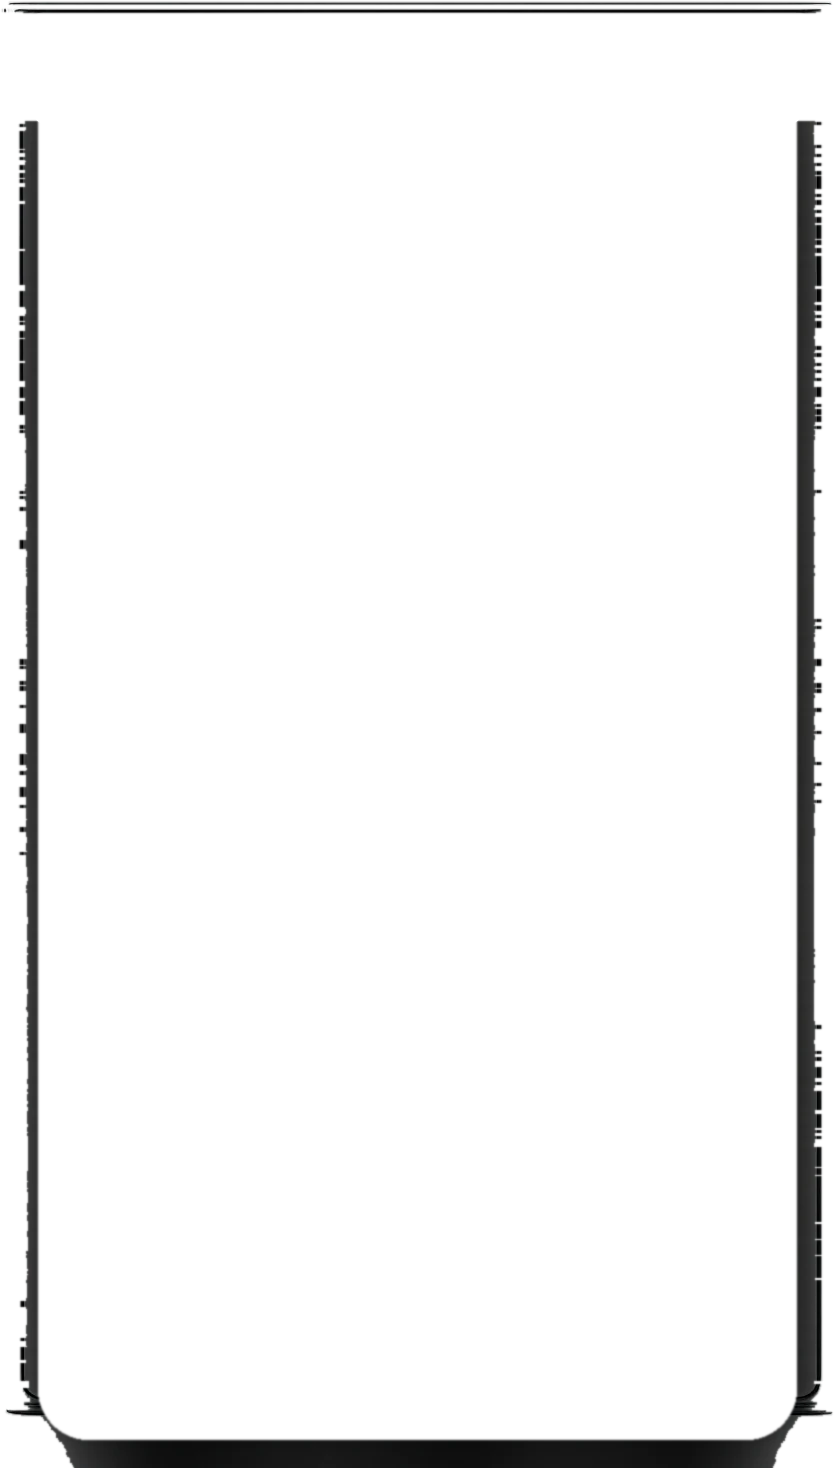
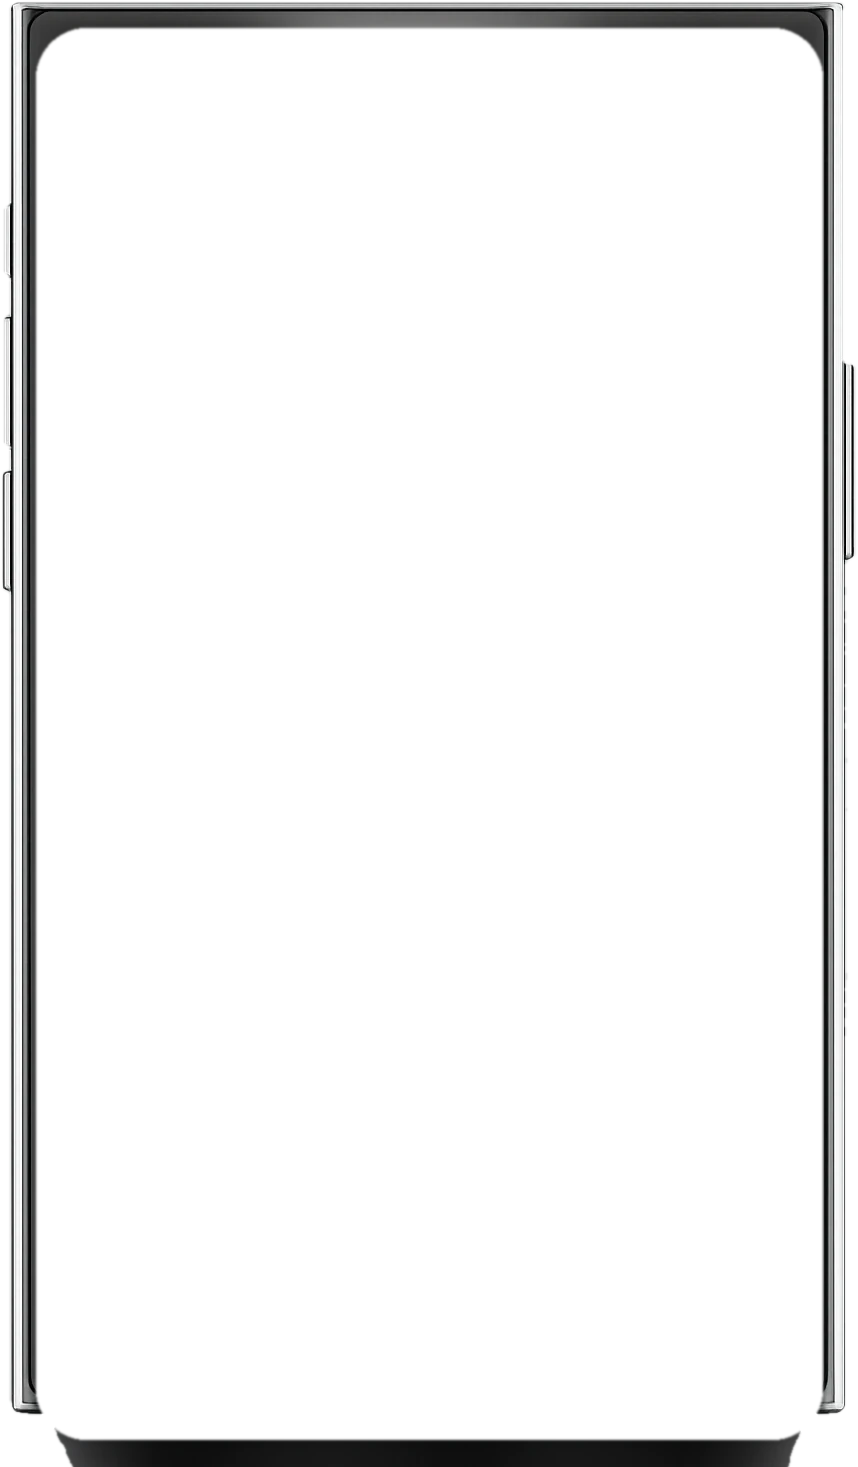
The login: black, the words outside, the phone never stretched
Rebuilt the way you asked.

Black everywhere — the screen and the glass both. app.css gives every
.nm-wrap the light auth surface, which is why a pale column sat behind the
words with black either side of it; that declaration is off on this screen
only. The logo is gone.

Inside the phone: Google, Email, Phone and Explore without account, and
nothing else. Outside it, on the black: Nowsbansiu, Welcome, and the line
under it.

The render is not stretched. .lg-phone carries aspect-ratio 858 / 1467 —
the frame file's own — so the box is the shape of the photograph. Measured
0.5849 against the file's 0.5849.

Opening a form used to break that. As a normal flow child the glass grew
the phone, and tapping Email took the bezel from 0.585 to 0.542 — the one
thing this must not do. The glass is absolutely positioned now, so it
cannot report a height upward: the phone holds its proportions, the glass
scrolls (613px of content in a 500px box), and the panel stays inside the
bezel. Measured after expanding: 0.5849, unchanged.

The frame itself is cleaner. The dashes down the rails were stray bright
pixels in the source's left margin; the cutout now keeps only the largest
connected component of the mask, so every speck is dropped rather than
welded onto the phone. 13 kB.

And the search bar: the Words/Meanings/Store pills are gone, the icon is
the app's own search mark — the same file the Word Search bar uses, not a
[…]

Changed region(s): [[0.0, 0.0, 0.9976, 1.0]]

diff --git a/nowssb-nm.css b/nowssb-nm.css
@@ -11201,21 +11201,126 @@ body.fpoff-routines #home .rt-vid-banner { display: none !important; }
 }
 #certPanelCard { margin-top: 14px; max-width: 300px; }
 
-/* ── The phone the login sits inside ──────────────────────────────
-   The login is a LIGHT screen — dark type on #e4e6ed — so the glass has to
-   stay light or every line on it disappears against the render's black.
-   The frame is the bezel and the rails; the screen behind it is the app's
-   own surface, not the photograph's. */
+/* ══════════════════════════════════════════════════════════════════
+   THE LOGIN — black, with the phone as the object on it.
+
+   Three rules decide this screen:
+
+     the screen is black, inside the phone and outside it both;
+     the words live OUTSIDE the glass, the buttons INSIDE it;
+     the render is never stretched.
+
+   That last one is why .lg-phone carries an aspect-ratio of 858 / 1467 —
+   the frame file's own. The box is the shape of the photograph, so the
+   bezel keeps its proportions no matter how much is inside it, and the
+   content scrolls within the glass rather than pushing the phone out of
+   shape. Opening the email or phone form makes .lg-glass scroll; it can
+   never make the bezel grow.
+   ══════════════════════════════════════════════════════════════════ */
+.lg-screen-black { background: #000 !important; }
+.lg-wrap {
+  width: 100%; max-width: 460px; margin: 0 auto;
+  display: flex; flex-direction: column; align-items: center;
+  padding: max(env(safe-area-inset-top, 34px), 34px) 16px
+           max(env(safe-area-inset-bottom, 24px), 24px);
+  box-sizing: border-box;
+  /* app.css gives every .nm-wrap the light auth surface (#e4e6ed). This
+     screen is black behind the phone as well as inside it, so that one
+     declaration has to come off — otherwise a pale column sits behind the
+     words with black either side of it. */
+  background: transparent !important;
+  min-height: 100%; overflow-y: auto; scrollbar-width: none;
+}
+.lg-wrap::-webkit-scrollbar { display: none; }
+
+/* ── The words, on the black ── */
+.lg-head { text-align: center; padding: 4px 0 18px; }
+.lg-head .nm-brand {
+  font-family: 'DM Sans', sans-serif; font-size: 10px; font-weight: 700;
+  letter-spacing: 5px; text-transform: uppercase; color: #c8a96e;
+}
+.lg-head .nm-auth-title {
+  font-family: 'DM Sans', sans-serif; font-size: 34px; font-weight: 800;
+  color: #fff; letter-spacing: -0.6px; line-height: 1.1; margin-top: 10px;
+}
+.lg-head .nm-auth-sub {
+  font-family: 'DM Sans', sans-serif; font-size: 13.5px; font-weight: 300;
+  color: rgba(255,255,255,0.5); margin-top: 8px;
+}
+
+/* ── The phone ── */
+.lg-phone {
+  width: 100%; max-width: 330px;
+  aspect-ratio: 858 / 1467;      /* the frame file's own — never stretched */
+  flex: 0 0 auto;
+}
 .nwsb-inframe.dev-phone {
-  padding: 2.6% 5.6%;
-  background: #e4e6ed;
-  border-radius: 26px !important;
+  padding: 0;                    /* .lg-glass places itself; see below */
+  background: #000;
+  border-radius: 30px !important;
+  overflow: hidden;
 }
 .nwsb-inframe.dev-phone::after { background-image: url('./assets/frames/phone-login.webp'); }
-#login .nm-wrap.dev-phone {
-  max-width: 400px; margin: 0 auto;
-  /* Keeps the bezel from stretching to a shape no phone has. */
-  min-height: 78vh;
+
+/* The glass. Black, and the only thing that scrolls.
+
+   ABSOLUTELY positioned, which is the whole point: as a normal flow child
+   it could grow the phone, and opening the email form did exactly that —
+   the bezel went from its true 0.585 aspect to 0.542, stretching the
+   render, which is the one thing this must not do. Taken out of flow it
+   cannot report a height upward, so the phone keeps the file's proportions
+   whatever is inside and the content scrolls behind the bezel instead. */
+.lg-glass {
+  position: absolute; inset: 2.2% 5.4%;
+  box-sizing: border-box; overflow-y: auto; overflow-x: hidden;
+  -webkit-overflow-scrolling: touch; scrollbar-width: none;
+  background: #000; border-radius: 22px !important;
+  display: flex; flex-direction: column; justify-content: center;
+  padding: 18px 13px; gap: 0;
+}
+.lg-glass::-webkit-scrollbar { display: none; }
+
+/* ── The buttons, on black ── */
+#login .nm-btn-list { width: 100%; }
+#login .nm-auth-btn {
+  background: #101015; border: 1px solid rgba(255,255,255,0.12);
+  color: #fff; border-radius: 14px !important;
+  box-shadow: none; padding: 16px 18px; margin: 0;
+}
+#login .nm-auth-btn + .nm-auth-btn { margin-top: 10px; }
+#login .nm-auth-btn:active { background: #17171e; }
+#login .nm-divider { margin: 12px 0; }
+#login .nm-divider-line { background: rgba(255,255,255,0.12); }
+#login .nm-divider-text { color: rgba(255,255,255,0.35); }
+#login .nm-form-panel { background: none; border: none; padding: 12px 0 0; }
+#login .nm-field-label { color: rgba(255,255,255,0.55); }
+#login .nm-input-wrap {
+  background: #101015; border: 1px solid rgba(255,255,255,0.14);
+  border-radius: 12px !important;
+}
+#login .nm-input { color: #fff; }
+#login .nm-input::placeholder { color: rgba(255,255,255,0.3); }
+#login .nm-input-icon svg [stroke], #login .nm-input-icon-r svg [stroke] { stroke: rgba(255,255,255,0.4); }
+#login .nm-submit-btn, #login .nm-primary-btn {
+  border-radius: 12px !important;
+}
+.lg-guest {
+  display: block; width: 100%; margin-top: 16px; padding: 12px;
+  background: transparent; border: none; cursor: pointer;
+  font-family: 'DM Sans', sans-serif; font-size: 13px; font-weight: 400;
+  color: #c8a96e; letter-spacing: 0.3px; text-align: center;
+}
+/* The auth note sits on black here too. */
+#login .nwsb-auth-note {
+  background: rgba(255,255,255,0.07); border-color: rgba(255,255,255,0.14);
+  color: rgba(255,255,255,0.72);
+}
+#login .nwsb-auth-note.bad { background: rgba(120,30,30,0.4); color: #ffd9d9; border-color: rgba(200,80,80,0.4); }
+
+/* Short screens: let the phone shrink rather than crop the words above it. */
+@media (max-height: 720px) {
+  .lg-phone { max-width: 280px; }
+  .lg-head .nm-auth-title { font-size: 28px; }
 }
 
 /* ══ ONE SEARCH — the bar at the top of the Normal home ══
@@ -11229,8 +11334,11 @@ body.fpoff-routines #home .rt-vid-banner { display: none !important; }
   background: #eaecf3;
   box-shadow: inset 5px 5px 11px rgba(0,0,0,0.10), inset -5px -5px 11px rgba(255,255,255,0.95);
 }
-.nmh-search-ic { width: 19px; height: 19px; flex-shrink: 0; color: rgba(30,36,56,0.42); }
-.nmh-search-ic svg { width: 100%; height: 100%; display: block; }
+/* The app's own search mark, the same file the Word Search bar uses —
+   an image rather than an inline glyph, so the two bars are the same
+   thing rather than two drawings of it. */
+.nmh-search-ic { width: 20px; height: 20px; flex-shrink: 0; opacity: 0.5; }
+.nmh-search-ic .nwsb-search-icon { width: 100%; height: 100%; object-fit: contain; display: block; }
 .nmh-search-in {
   flex: 1; min-width: 0; border: none; background: none; outline: none;
   font-family: 'DM Sans', sans-serif; font-size: 14.5px; font-weight: 400;
@@ -11244,23 +11352,15 @@ body.fpoff-routines #home .rt-vid-banner { display: none !important; }
   display: flex; align-items: center; justify-content: center;
   box-shadow: 4px 4px 10px rgba(0,0,0,0.18), -3px -3px 8px rgba(255,255,255,0.9);
 }
-.nmh-search-go svg { width: 17px; height: 17px; display: block; }
+.nmh-search-go .nwsb-search-icon { width: 18px; height: 18px; object-fit: contain; display: block; filter: brightness(0) invert(1); }
 .nmh-search-go:active { transform: scale(0.94); }
-.nmh-search-chips {
-  display: flex; gap: 8px; flex-wrap: wrap;
-  width: calc(100% - 32px); margin: 10px 16px 0;
-}
-.nmh-search-chip {
-  font-family: 'DM Sans', sans-serif; font-size: 11px; font-weight: 600;
-  letter-spacing: 1.4px; text-transform: uppercase; color: rgba(30,36,56,0.55);
-  background: #eef0f6; padding: 8px 15px; border-radius: 999px !important; cursor: pointer;
-  box-shadow: 3px 3px 8px rgba(0,0,0,0.09), -3px -3px 8px rgba(255,255,255,0.95);
-}
-.nmh-search-chip:active { box-shadow: inset 3px 3px 7px rgba(0,0,0,0.12), inset -3px -3px 7px rgba(255,255,255,0.9); }
+
+
+
 /* The Normal home's dark mode keeps the same shapes, darker. */
 #home-nm.nm-dark .nmh-search { background: #141433; box-shadow: inset 5px 5px 12px rgba(0,0,0,0.75), inset -4px -4px 10px rgba(60,60,120,0.25); }
 #home-nm.nm-dark .nmh-search-in { color: #fff; }
 #home-nm.nm-dark .nmh-search-in::placeholder { color: rgba(255,255,255,0.38); }
 #home-nm.nm-dark .nmh-search-ic { color: rgba(255,255,255,0.45); }
-#home-nm.nm-dark .nmh-search-go { background: #e8d5a3; color: #06080f; }
-#home-nm.nm-dark .nmh-search-chip { background: #16163c; color: rgba(255,255,255,0.6); box-shadow: 4px 4px 10px rgba(0,0,0,0.7), -3px -3px 8px rgba(50,50,110,0.28); }
+#home-nm.nm-dark .nmh-search-go { background: #e8d5a3; }
+#home-nm.nm-dark .nmh-search-go .nwsb-search-icon { filter: none; opacity: 0.85; }

diff --git a/index.html b/index.html
@@ -109,7 +109,7 @@ window.addEventListener('appinstalled', function () { window._bipEvent = null; }
 <script type="module" src="app/js/firebase.module.js?v=263"></script>
 <link rel="stylesheet" href="app/app.css?v=312">
 <link rel="stylesheet" href="nowssb-social.css?v=210">
-<link rel="stylesheet" href="nowssb-nm.css?v=644">
+<link rel="stylesheet" href="nowssb-nm.css?v=648">
 <link rel="stylesheet" href="nowssb-player.css?v=201">
 </head>
 <body>
@@ -184,17 +184,23 @@ window.addEventListener('appinstalled', function () { window._bipEvent = null; }
 </div>
 
 <!-- ══ SCREEN 2: LOGIN ══ -->
-<div class="screen" id="login" style="background:#e4e6ed;">
-  <div class="nm-wrap nwsb-inframe dev-phone">
+<div class="screen lg-screen-black" id="login">
+  <div class="nm-wrap lg-wrap">
 
-    <div class="nm-logo-area">
-      <div class="nm-logo-ring">
-        <img decoding="async" class="nm-logo-img" src="https://res.cloudinary.com/ds6duqabl/image/upload/f_auto,q_auto/v1779717856/30ebb160-5840-11f1-bb0c-71720609fd8f_g5nmcn.png" alt="NowssB">
-      </div>
+    <!-- Outside the phone, on the black: the words. No logo — the phone is
+         the object on this screen and a disc above it competed with it. -->
+    <div class="nm-logo-area lg-head">
       <div class="nm-brand">Nowsbansiu</div>
       <div class="nm-auth-title">Welcome</div>
       <div class="nm-auth-sub">Sign in or create your account</div>
     </div>
+
+    <!-- The phone. Its aspect ratio is the frame file's own (858 x 1467),
+         so the render is never stretched to fit whatever is inside it —
+         the box is the shape of the photograph and the content scrolls
+         within the glass instead of pushing the bezel out of shape. -->
+    <div class="lg-phone nwsb-inframe dev-phone">
+      <div class="lg-glass">
 
     <div class="nm-btn-list">
 
@@ -279,10 +285,12 @@ window.addEventListener('appinstalled', function () { window._bipEvent = null; }
 
     </div>
 
-    <button onclick="window._guestMode=true;goTo('home');" style="display:block;width:100%;margin-top:18px;padding:12px;background:transparent;border:none;cursor:pointer;font-family:'DM Sans',sans-serif;font-size:13px;font-weight:400;color:#c8a96e;letter-spacing:0.3px;text-align:center;opacity:0.8;">
+    <button class="lg-guest" onclick="window._guestMode=true;goTo('home');">
       Explore without account →
     </button>
 
+      </div><!-- /lg-glass -->
+    </div><!-- /lg-phone -->
   </div>
 </div>
 
@@ -806,22 +814,14 @@ window.addEventListener('appinstalled', function () { window._bipEvent = null; }
          the top, that searches words and meanings together — typing goes to
          the Word Atelier, the mic and the two chips go where they say. -->
     <div class="nmh-search" role="search">
-      <span class="nmh-search-ic">
-        <svg viewBox="0 0 24 24" fill="none"><circle cx="11" cy="11" r="7" stroke="currentColor" stroke-width="1.9"/><path d="M16.5 16.5 21 21" stroke="currentColor" stroke-width="1.9" stroke-linecap="round"/></svg>
-      </span>
+      <span class="nmh-search-ic"><img src="https://res.cloudinary.com/ds6duqabl/image/upload/f_auto,q_auto/v1779563281/246883f0-56d8-11f1-8fad-095787cce754_m4vnqu.png" class="nwsb-search-icon" alt=""></span>
       <input class="nmh-search-in" id="nmhSearchInput" type="search" enterkeyhint="search"
              placeholder="Search any word or meaning…"
              onkeydown="if(event.key==='Enter'){event.preventDefault();nmhSearchGo();}">
       <button class="nmh-search-go" onclick="nmhSearchGo()" aria-label="Search">
-        <svg viewBox="0 0 24 24" fill="none"><path d="M4 12h14M12 5l7 7-7 7" stroke="currentColor" stroke-width="2" stroke-linecap="round" stroke-linejoin="round"/></svg>
+        <img src="https://res.cloudinary.com/ds6duqabl/image/upload/f_auto,q_auto/v1779563281/246883f0-56d8-11f1-8fad-095787cce754_m4vnqu.png" class="nwsb-search-icon" alt="">
       </button>
     </div>
-    <div class="nmh-search-chips">
-      <span class="nmh-search-chip" onclick="openSub('real-meaning')">Words</span>
-      <span class="nmh-search-chip" onclick="openSub('meaning-store')">Meanings</span>
-      <span class="nmh-search-chip" onclick="openSub('nowssb-store')">Store</span>
-    </div>
-
     <svg width="0" height="0" style="position:absolute" aria-hidden="true">
       <filter id="npcRippleBlue" x="-20%" y="-20%" width="140%" height="140%">
         <feTurbulence type="fractalNoise" baseFrequency="0.006 0.018" numOctaves="2" seed="11" result="turb">
@@ -9972,7 +9972,7 @@ window.addEventListener('appinstalled', function () { window._bipEvent = null; }
 <script src="app/js/part059.js?v=8"></script>
 <script src="app/js/part060.js?v=2"></script>
 <script src="app/js/part061.js?v=8"></script>
-<script src="app/js/part062.js?v=24"></script>
+<script src="app/js/part062.js?v=25"></script>
 <script src="app/js/part063.js?v=4"></script>
 <script src="app/js/part064.js?v=6"></script>
 <script src="app/js/part065.js?v=13"></script>

diff --git a/app/js/part062.js b/app/js/part062.js
@@ -39,6 +39,12 @@
       wrap:  '#home-nm .nmh-wrap',
       items: [
         { k:'greet',    sel:['.nmh-greet-block'],                                          t:S, label:'Greeting',              sub:'Good morning · hero header', locked:1 },
+        /* Registered so the layout editor places it. Unregistered sections
+           are left where they are while every registered one is re-appended
+           around them, which strands them at the TOP of the home — this bar
+           was landing above the greeting for exactly that reason. It sits
+           after the greeting and before the hero clip and the streak. */
+        { k:'search',   sel:['.nmh-search'],                                               t:S, label:'Search',                sub:'One bar for words and meanings' },
         { k:'herovid',  sel:['.nmh-hero-vid'],                                             t:B, label:'Hero Video',            sub:'Video banner above the streak' },
         { k:'streak',   sel:['.nmh-streak-section'],                                       t:S, label:'Streak',                sub:'Your daily practice streak', always:1 },
         { k:'storedisc',sel:['.npc-card.npc-purple'],                                      t:B, label:'Store Disc',            sub:'Rotating store promo disc' },

diff --git a/sw.js b/sw.js
@@ -1,4 +1,4 @@
-const CACHE = 'nowsbansiu-v813';
+const CACHE = 'nowsbansiu-v818';
 // Separate, stable-named bucket for background-prefetched videos (see
 // app/js/part051.js). Kept OUT of the version-bumped CACHE above so a
 // routine JS/CSS deploy never wipes out videos the user already has warmed —
